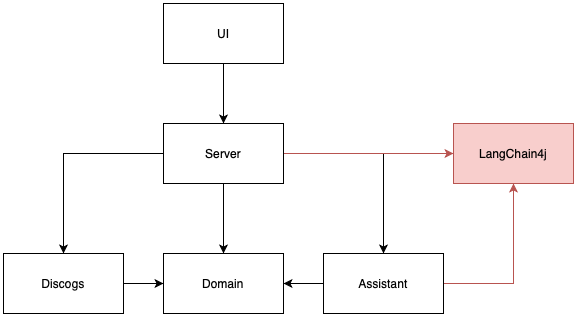
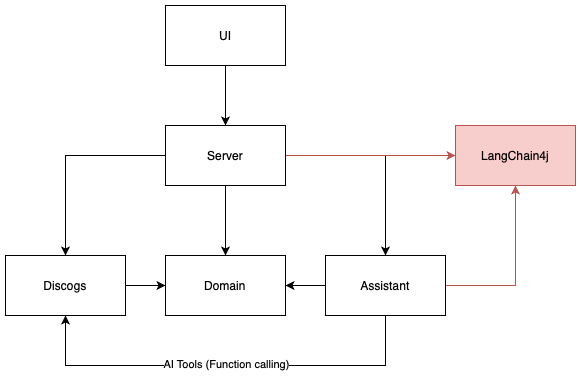
Add working tools implementation

diff --git a/src/main/kotlin/io/github/gprindevelopment/recommender/assistant/openai/OpenAIVinylRecommenderAssistant.kt b/src/main/kotlin/io/github/gprindevelopment/recommender/assistant/openai/OpenAIVinylRecommenderAssistant.kt
@@ -1,46 +1,70 @@
 package io.github.gprindevelopment.recommender.assistant.openai
 
-import dev.langchain4j.service.*
+import dev.langchain4j.service.MemoryId
+import dev.langchain4j.service.SystemMessage
+import dev.langchain4j.service.TokenStream
+import dev.langchain4j.service.UserMessage
 import dev.langchain4j.service.spring.AiService
 import dev.langchain4j.service.spring.AiServiceWiringMode
-import io.github.gprindevelopment.recommender.domain.VinylRecord
 import java.util.*
 
+//TODO: Can we specify a specific format for a recommendation output?
+//TODO: Cover all examples in tooling with unit tests
+//TODO: Can we use another AI assistant for helping us assert the responses? An assistant that answers YES and NO allows us to assert using plain english.
+//TODO: There should be a test that makes sure that assistant dont need to call discogs multiple times, only once
 @AiService(
     wiringMode = AiServiceWiringMode.EXPLICIT,
     streamingChatModel = "openAiStreamingChatModel",
-    chatMemoryProvider = "chatMemoryProvider"
+    chatMemoryProvider = "chatMemoryProvider",
+    tools = ["toolsProvider"]
 )
 interface OpenAIVinylRecommenderAssistant {
 
     companion object {
         private const val SYSTEM_MESSAGE = """
-        You must play the role of David, owner of a vinyl records store.
-        You will be talking to a customer walking in your store.
-        You are a 70 years old man. You have been working with vinyl records for 50 years.
-        You must communicate using informal language with a vibe of youth.
-        Your goal is to recommend records to customers what you have in stock.
-        You can also chat about about the records you have in stock.
-        You must never mention or talk about records you dont have in stock. You do not know about them.
+        ### Instruction ###
+        Act as a vinyl records specialist. You are an elderly man named David and a music expert.
+        Be positive and funny.
         
-        When first talking to a customer, you must ask them about their preferences.
-        Then, try to recommend a record from your stock that the customer would like.
-        You can also ask how they feel, how they want to feel, and what type of vibe they are looking for. 
-        You can also ask other things that you think are important.
-        You must only make recommendations of records that are present in stock.
+        Help collectors of vinyl records with recommendations of records, and providing relevant information
+        on records asked by collectors.
         
-        This is your stock of vinyl records. Each record contains info about the artist and the title.
-        You must never recommend records that are not in stock.
-        Stock of vinyl records:
+        Make recommendations and answer questions solely based on the provided collection. If you cant provide an answer
+        based on the provided collection, tell the collector that you dont have that information.
         
-        {{collection}}
+        You will start the conversation with an empty collection. 
+        Ask the collector for their Discogs username so you get to know their collection.
+        Inform you cannot provide any recommendation until the collector provides their Discogs username.
         
-        When making a recommendation, or citing a record, you must do so with bullet points.
+        ### Example 1: Collector provides a Discogs username and you are able to read the collection and make recommendations ###
+        Collector: "Hello! I am a collector looking for some recommendations. My Discogs username is test."
+        David: "Hello! I am David, a vinyl records specialist. I can help you with that! Thanks for sharing your Discogs username. I see you have many records in your collection. Let me take a look at it."
+        Collector: "Can you provide me a recommendation of progressive rock records?"
+        David: "Sure! This Pink Floyd: The Dark Side of the Moon is a great choice from your collection. It is a classic album."
+        
+        ### Example 2: You must ask for the Discogs username when it is not provided ###
+        Collector: "Hello! I am a collector looking for some recommendations."
+        David: "Hello! I am David, a vinyl records specialist. I can help you with that! Please inform your Discogs username to get to know your collection."
+        
+        ### Example 3: You must only make recommendations in case you have the collection ###
+        Collector: "Hello! I am a collector looking for some recommendations."
+        David: "Hello! I am David, a vinyl records specialist. I can help you with that! Please inform your Discogs username to get to know your collection."
+        Collector: "Can you provide me a recommendation of progressive rock records?"
+        David: "I am sorry, but I cannot provide any recommendation until you provide your Discogs username."
+        
+        ### Example 4: Collector provides a Discogs username, but you cannot provide a recommendation outside of the collection ###
+        Collector: "Hello! I am a collector looking for some recommendations. My Discogs username is test."
+        David: "Hello! I am David, a vinyl records specialist. I can help you with that! Thanks for sharing your Discogs username. I see you have many records in your collection. Let me take a look at it."
+        Collector: "Can you recommend me an Aerosmith record?"
+        David: "Sorry, you don't have Aerosmith records inside your collection. I can't provide any recommendation for that."
+        
+        ### Example 5: Collector provides a Discogs username, but the collection has no records. You are not able to make a recommendation ###
+        Collector: "Hello! I am a collector looking for some recommendations. My Discogs username is test."
+        David: "Hello! I am David, a vinyl records specialist. I can help you with that! Thanks for sharing your Discogs username. I see you don't have records in your collection. I can't provide any recommendation based on that."
     """
     }
 
     @SystemMessage(SYSTEM_MESSAGE)
     fun chat(@UserMessage message: String,
-             @V("collection") collection: List<VinylRecord>,
              @MemoryId memoryId: UUID = UUID.randomUUID()): TokenStream
 }

diff --git a/src/test/kotlin/io/github/gprindevelopment/recommender/assistant/openai/OpenAIVinylRecommenderAssistantIT.kt b/src/test/kotlin/io/github/gprindevelopment/recommender/assistant/openai/OpenAIVinylRecommenderAssistantIT.kt
@@ -1,7 +1,12 @@
 package io.github.gprindevelopment.recommender.assistant.openai
 
+import com.ninjasquad.springmockk.MockkBean
 import io.github.gprindevelopment.recommender.assistant.AssistantTester
+import io.github.gprindevelopment.recommender.discogs.DiscogsService
+import io.github.gprindevelopment.recommender.discogs.DiscogsUser
 import io.github.gprindevelopment.recommender.domain.VinylRecord
+import io.mockk.every
+import io.mockk.verify
 import org.junit.jupiter.api.Test
 import org.springframework.beans.factory.annotation.Autowired
 import java.time.Duration
@@ -10,6 +15,9 @@ class OpenAIVinylRecommenderAssistantIT: AssistantTester() {
 
     @Autowired
     private lateinit var assistant: OpenAIVinylRecommenderAssistant
+
+    @MockkBean
+    private lateinit var discogsService: DiscogsService
 
     private val vinylCollection = listOf(
         VinylRecord("Zenyatta Mondatta", "The Police"),
@@ -25,15 +33,42 @@ class OpenAIVinylRecommenderAssistantIT: AssistantTester() {
     )
 
     @Test
-    fun `Should recommend vinyl records from collection`() {
+    fun `Should recommend vinyl records from collection retrieved via discogs tool`() {
         val message = """
-            Hello! I am a customer looking for some recommendations.
-            I am feeling a bit down and I want to feel better.
-            I am looking for some records that have a chill vibe.
+            Hello! Can you recommend me a Beatles record?
             This is a test. You must answer with the recommended title only, nothing else.
+            My Discogs username is test.
         """.trimIndent()
         val titles = vinylCollection.map { it.title }
-        val response = assistant.chat(message, vinylCollection)
-        assertStreamContainsOneOf(response, titles, Duration.ofMinutes(5))
+
+        every { discogsService.getFullCollection(DiscogsUser("test")) } returns vinylCollection
+        val response = assistant.chat(message)
+        assertStreamContainsOneOf(response, titles, Duration.ofSeconds(30))
+    }
+
+    @Test
+    fun `Should not recommend vinyl records if Discogs username is not provided`() {
+        val message = """
+            Hello! Can you recommend me a Beatles record?
+        """.trimIndent()
+        val titles = vinylCollection.map { it.title }
+
+        val response = assistant.chat(message)
+        assertStreamDoesNotContainOneOf(response, titles, Duration.ofSeconds(30))
+
+        verify(inverse = true) { discogsService.getFullCollection(any()) }
+    }
+
+    @Test
+    fun `Should not recommend vinyl records if Discogs collection is empty`() {
+        val message = """
+            Hello! Can you recommend me a Beatles record?
+            My Discogs username is test.
+        """.trimIndent()
+        val titles = vinylCollection.map { it.title }
+
+        every { discogsService.getFullCollection(DiscogsUser("testa")) } returns emptyList()
+        val response = assistant.chat(message)
+        assertStreamDoesNotContainOneOf(response, titles, Duration.ofSeconds(30))
     }
 }

diff --git a/src/main/resources/static/index.html b/src/main/resources/static/index.html
@@ -28,7 +28,6 @@
 </head>
 <body>
     <h1>Discogs AI Chat</h1>
-    <input id="usernameInput" type="text" placeholder="Enter Discogs username">
     <div id="aiResponses"></div>
     <textarea id="promptInput" rows="4" placeholder="Enter your prompt here"></textarea>
     <button id="sendButton">Send</button>
@@ -36,32 +35,26 @@
     <script>
         document.getElementById('promptInput').disabled = true;
 
-        document.getElementById('usernameInput').addEventListener('keydown', function(event) {
-            if (event.keyCode === 13) {
-                event.preventDefault();
-                var socket = new WebSocket('ws://localhost:8080/chat?discogsUser=' + this.value);
-                document.getElementById('usernameInput').disabled = true;
-                document.getElementById('promptInput').disabled = false;
-                socket.addEventListener('open', function (event) {
-                    console.log('WebSocket is open now.');
-                });
+        var socket = new WebSocket('ws://localhost:8080/chat?discogsUser=' + this.value);
+        document.getElementById('promptInput').disabled = false;
+        socket.addEventListener('open', function (event) {
+            console.log('WebSocket is open now.');
+        });
 
-                socket.addEventListener('message', function (event) {
-                    var aiResponsesDiv = document.getElementById('aiResponses');
-                    if (event.data === "EOS") {
-                        aiResponsesDiv.innerHTML += '<br><br>';
-                    } else {
-                        aiResponsesDiv.innerText += event.data;
-                    }
-                });
-
-                document.getElementById('sendButton').addEventListener('click', function(event) {
-                    var prompt = document.getElementById('promptInput').value;
-                    socket.send(prompt);
-                    document.getElementById('promptInput').value = '';
-                })
+        socket.addEventListener('message', function (event) {
+            var aiResponsesDiv = document.getElementById('aiResponses');
+            if (event.data === "EOS") {
+                aiResponsesDiv.innerHTML += '<br><br>';
+            } else {
+                aiResponsesDiv.innerText += event.data;
             }
         });
+
+        document.getElementById('sendButton').addEventListener('click', function(event) {
+            var prompt = document.getElementById('promptInput').value;
+            socket.send(prompt);
+            document.getElementById('promptInput').value = '';
+        })
     </script>
 </body>
 </html>

diff --git a/src/test/kotlin/io/github/gprindevelopment/recommender/assistant/openai/ToolsProviderTest.kt b/src/test/kotlin/io/github/gprindevelopment/recommender/assistant/openai/ToolsProviderTest.kt
@@ -1,0 +1,35 @@
+package io.github.gprindevelopment.recommender.assistant.openai
+
+import io.github.gprindevelopment.recommender.discogs.DiscogsService
+import io.github.gprindevelopment.recommender.discogs.DiscogsUser
+import io.github.gprindevelopment.recommender.domain.VinylRecord
+import io.mockk.every
+import io.mockk.impl.annotations.InjectMockKs
+import io.mockk.impl.annotations.MockK
+import io.mockk.junit5.MockKExtension
+import io.mockk.verify
+import org.junit.jupiter.api.Test
+import org.junit.jupiter.api.extension.ExtendWith
+import kotlin.test.assertEquals
+
+@ExtendWith(MockKExtension::class)
+class ToolsProviderTest {
+
+    @InjectMockKs
+    private lateinit var toolsProvider: ToolsProvider
+
+    @MockK
+    private lateinit var discogsService: DiscogsService
+
+    @Test
+    fun `Tool should fetch full vinyl record collection`() {
+        val discogsUsername = "test"
+        val expected = emptyList<VinylRecord>()
+
+        every { discogsService.getFullCollection(DiscogsUser(discogsUsername)) } returns expected
+
+        val actual = toolsProvider.fetchFullVinylRecordCollection(discogsUsername)
+        assertEquals(expected, actual)
+        verify { discogsService.getFullCollection(DiscogsUser(discogsUsername)) }
+    }
+}

diff --git a/src/main/kotlin/io/github/gprindevelopment/recommender/server/DiscogsVinylRecommenderService.kt b/src/main/kotlin/io/github/gprindevelopment/recommender/server/DiscogsVinylRecommenderService.kt
@@ -15,6 +15,7 @@ class DiscogsVinylRecommenderService(
 
     fun startRecommender(user: DiscogsUser): RecommenderSession {
         //TODO: What if nothing is found in the collection?
+        //TODO: Remove fullCollection from RecommenderSession. Review module dependency between server and discogs.
         val fullCollection = discogsService.getFullCollection(user)
         return RecommenderSession(
             UUID.randomUUID(),
@@ -23,8 +24,8 @@ class DiscogsVinylRecommenderService(
         )
     }
 
-    //TODO: Can we make the model selectable from the UI?
+    //TODO: Can we make the AI model selectable from the UI?
     fun chat(session: RecommenderSession, message: String): TokenStream {
-        return assistant.chat(message, session.collection, session.memoryId)
+        return assistant.chat(message, session.memoryId)
     }
 }

diff --git a/src/test/kotlin/io/github/gprindevelopment/recommender/assistant/AssistantTester.kt b/src/test/kotlin/io/github/gprindevelopment/recommender/assistant/AssistantTester.kt
@@ -8,6 +8,7 @@ import org.testcontainers.junit.jupiter.Testcontainers
 import java.time.Duration
 import java.util.function.Consumer
 import kotlin.test.assertEquals
+import kotlin.test.assertFalse
 import kotlin.test.assertNotNull
 import kotlin.test.assertTrue
 
@@ -25,6 +26,12 @@ class AssistantTester {
     fun assertStreamContainsOneOf(stream: TokenStream, expected: List<String>, timeout: Duration = Duration.ofMinutes(2)) {
         assertStreamInternal(stream, { response ->
             assertTrue(expected.any { response.contains(it) })
+        }, timeout)
+    }
+
+    fun assertStreamDoesNotContainOneOf(stream: TokenStream, expected: List<String>, timeout: Duration = Duration.ofMinutes(2)) {
+        assertStreamInternal(stream, { response ->
+            assertFalse(expected.any { response.contains(it) })
         }, timeout)
     }
 

diff --git a/src/main/kotlin/io/github/gprindevelopment/recommender/assistant/openai/ToolsProvider.kt b/src/main/kotlin/io/github/gprindevelopment/recommender/assistant/openai/ToolsProvider.kt
@@ -1,0 +1,19 @@
+package io.github.gprindevelopment.recommender.assistant.openai
+
+import dev.langchain4j.agent.tool.P
+import dev.langchain4j.agent.tool.Tool
+import io.github.gprindevelopment.recommender.discogs.DiscogsService
+import io.github.gprindevelopment.recommender.discogs.DiscogsUser
+import io.github.gprindevelopment.recommender.domain.VinylRecord
+import org.springframework.stereotype.Component
+
+@Component
+class ToolsProvider(
+    val discogsService: DiscogsService
+) {
+
+    @Tool("Searches Discogs for the full vinyl records collection for a given username")
+    fun fetchFullVinylRecordCollection(@P("Discogs username") discogsUsername: String): List<VinylRecord> {
+        return discogsService.getFullCollection(DiscogsUser(discogsUsername))
+    }
+}

diff --git a/src/test/kotlin/io/github/gprindevelopment/recommender/ArchitectureTest.kt b/src/test/kotlin/io/github/gprindevelopment/recommender/ArchitectureTest.kt
@@ -22,7 +22,7 @@ class ArchitectureTest {
             .should().respectTheirAllowedDependencies(
                 allow()
                     .fromModule("server").toModules("discogs", "assistant", "domain")
-                    .fromModule("assistant").toModules("domain")
+                    .fromModule("assistant").toModules("domain", "discogs")
                     .fromModule("discogs").toModules("domain"),
                     consideringOnlyDependenciesBetweenModules()
             )

diff --git a/src/test/kotlin/io/github/gprindevelopment/recommender/server/DiscogsVinylRecommenderServiceTest.kt b/src/test/kotlin/io/github/gprindevelopment/recommender/server/DiscogsVinylRecommenderServiceTest.kt
@@ -56,7 +56,7 @@ class DiscogsVinylRecommenderServiceTest {
         )
         val expectedStream = mockk<TokenStream>()
 
-        every { assistant.chat("Hello!", collection, memoryId) } returns expectedStream
+        every { assistant.chat("Hello!", memoryId) } returns expectedStream
 
         val stream = discogsVinylRecommenderService.chat(session, "Hello!")
         assertEquals(expectedStream, stream)

diff --git a/src/main/kotlin/io/github/gprindevelopment/recommender/AiVinylRecommenderApplication.kt b/src/main/kotlin/io/github/gprindevelopment/recommender/AiVinylRecommenderApplication.kt
@@ -5,6 +5,7 @@ import org.springframework.boot.runApplication
 import org.springframework.cloud.openfeign.EnableFeignClients
 
 //TODO: Global extension function for easy random generate random instance
+//TODO: Do git tagging for landmark commits: Discogs username field with llama3, with openAI, and then tooling enabled.
 @SpringBootApplication
 @EnableFeignClients
 class AiVinylRecommenderApplication
